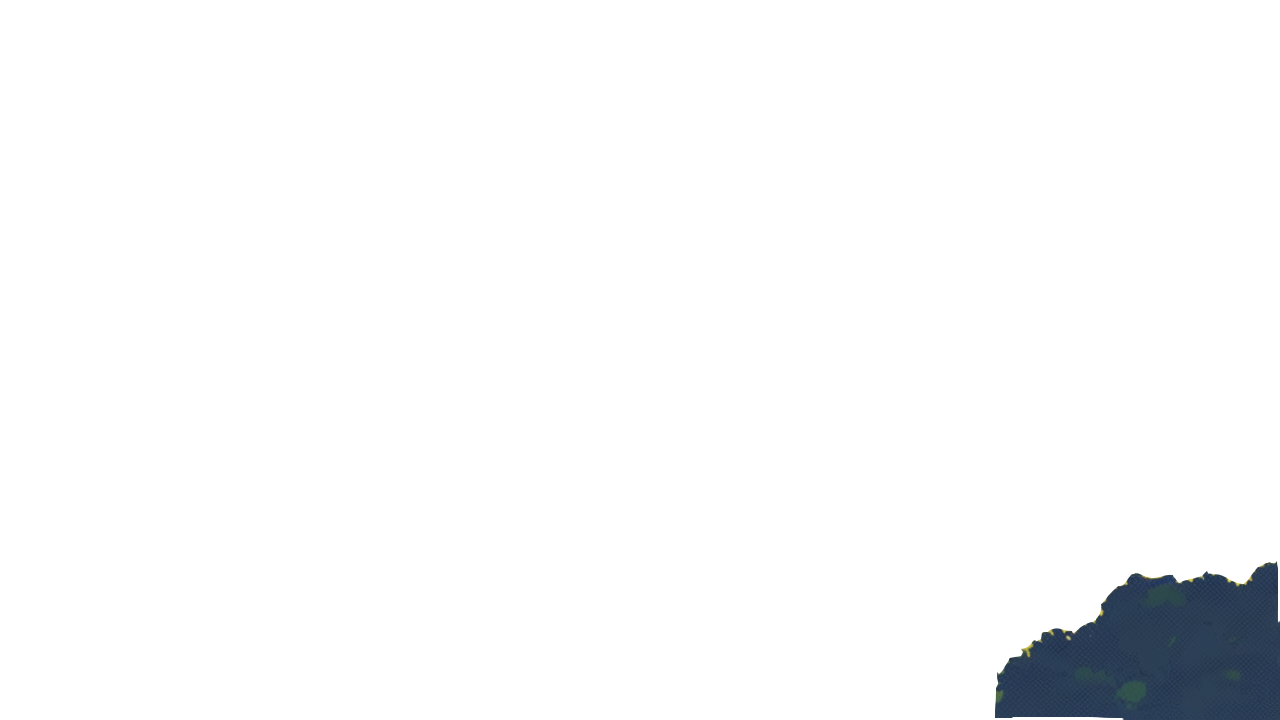
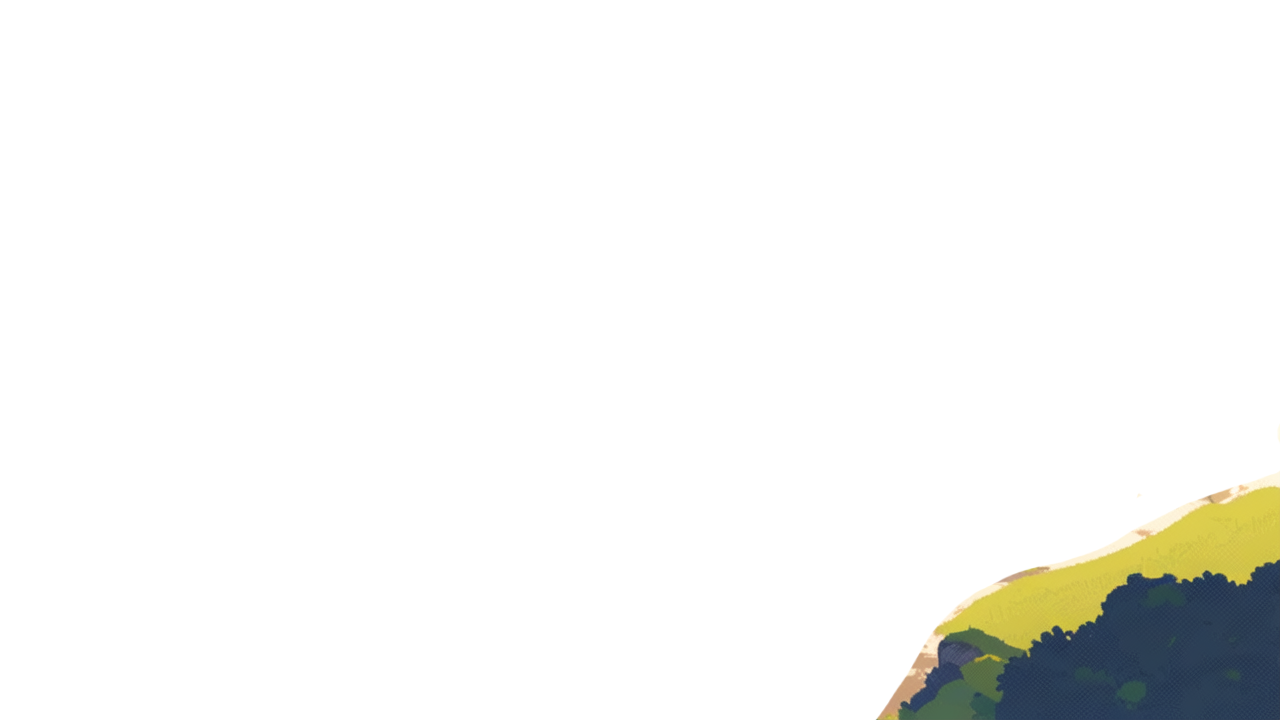
Add arrow to main, crashland, storage room to navigate through rooms, removed the old way to go through rooms

Changed region(s): [[0.6875, 0.6417, 1.0, 1.0]]

diff --git a/src/main/java/nz/ac/auckland/se206/controllers/CentralController.java b/src/main/java/nz/ac/auckland/se206/controllers/CentralController.java
@@ -10,25 +10,24 @@ import nz.ac.auckland.se206.SceneManager;
 import nz.ac.auckland.se206.SceneManager.AppPanel;
 
 public class CentralController {
-  @FXML private Polygon outsideDoor;
   @FXML private Polygon processMachine;
-  @FXML private Polygon storage;
   @FXML private Label counter;
+  @FXML private ImageView outsideDoor;
+  @FXML private ImageView storage;
   @FXML private ImageView progressButton;
   @FXML private ImageView rootInitial;
   @FXML private ImageView rootOne;
   @FXML private ImageView rootTwo;
   @FXML private ImageView rootThree;
-  @FXML private ImageView doorImage;
   @FXML private ImageView processMachineImage;
-  @FXML private ImageView storageImage;
 
   public void goOutside() {
-    SceneManager.setPrevious(AppPanel.OUTSIDE);
+    SceneManager.setPrevious(AppPanel.MAIN_ROOM);
     App.setUi(AppPanel.CRASHLAND);
   }
 
   public void goProgress() {
+    SceneManager.setPrevious(AppPanel.MAIN_ROOM);
     App.setUi(AppPanel.PROGRESS);
   }
 
@@ -52,11 +51,11 @@ public class CentralController {
   }
 
   public void activateDoorGlow() {
-    doorImage.setEffect(GameState.glowBright);
+    outsideDoor.setEffect(GameState.glowBright);
   }
 
   public void deactivateDoorGlow() {
-    doorImage.setEffect(GameState.glowDim);
+    outsideDoor.setEffect(GameState.glowDim);
   }
 
   public void activateProcessMachineGlow() {
@@ -68,10 +67,10 @@ public class CentralController {
   }
 
   public void activateStorageGlow() {
-    storageImage.setEffect(GameState.glowBright);
+    storage.setEffect(GameState.glowBright);
   }
 
   public void deactivateStorageGlow() {
-    storageImage.setEffect(GameState.glowDim);
+    storage.setEffect(GameState.glowDim);
   }
 }

diff --git a/src/main/java/nz/ac/auckland/se206/controllers/CrashLandController.java b/src/main/java/nz/ac/auckland/se206/controllers/CrashLandController.java
@@ -10,12 +10,10 @@ import nz.ac.auckland.se206.SceneManager;
 import nz.ac.auckland.se206.SceneManager.AppPanel;
 
 public class CrashLandController {
-  @FXML private Polygon forest;
-  @FXML private Polygon shuttle;
   @FXML private Polygon thruster;
+  @FXML private ImageView shuttle;
+  @FXML private ImageView forest;
   @FXML private ImageView progressButton;
-  @FXML private ImageView forestImage;
-  @FXML private ImageView shuttleImage;
   @FXML private ImageView thrusterImage;
   @FXML private Label counter;
 
@@ -45,19 +43,19 @@ public class CrashLandController {
   }
 
   public void activateForestGlow() {
-    forestImage.setEffect(GameState.glowBright);
+    forest.setEffect(GameState.glowBright);
   }
 
   public void deactivateForestGlow() {
-    forestImage.setEffect(GameState.glowDim);
+    forest.setEffect(GameState.glowDim);
   }
 
   public void activateShuttleGlow() {
-    shuttleImage.setEffect(GameState.glowBright);
+    shuttle.setEffect(GameState.glowBright);
   }
 
   public void deactivateShuttleGlow() {
-    shuttleImage.setEffect(GameState.glowDim);
+    shuttle.setEffect(GameState.glowDim);
   }
 
   public void activateThrusterGlow() {

diff --git a/src/main/java/nz/ac/auckland/se206/controllers/StorageController.java b/src/main/java/nz/ac/auckland/se206/controllers/StorageController.java
@@ -11,10 +11,9 @@ import nz.ac.auckland.se206.SceneManager.AppPanel;
 
 public class StorageController {
 
-  @FXML private Rectangle storageDoor;
-  @FXML private Rectangle hiddenChest;
-  @FXML private ImageView progressButton;
-  @FXML private ImageView storageDoorImage;
+    @FXML private Rectangle hiddenChest;
+    @FXML private ImageView progressButton;
+    @FXML private ImageView storageDoor;
   @FXML private ImageView hiddenChestImage;
   @FXML private ImageView chest;
   @FXML private Label counter;
@@ -47,11 +46,11 @@ public class StorageController {
   }
 
   public void activateDoorGlow() {
-    storageDoorImage.setEffect(GameState.glowBright);
+    storageDoor.setEffect(GameState.glowBright);
   }
 
   public void deactivateDoorGlow() {
-    storageDoorImage.setEffect(GameState.glowDim);
+    storageDoor.setEffect(GameState.glowDim);
   }
 
   public void activateHiddenChestGlow() {
